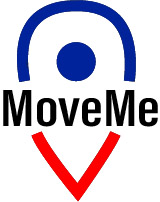
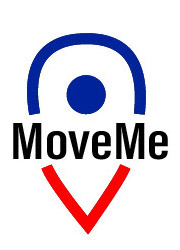
touch up the dynamically generated boxes and header

diff --git a/index.html b/index.html
@@ -23,20 +23,26 @@
 
     <header class="container-fluid" id="page-header">
         <div class="row">
-            <h1 class="col text-dark text-center">MoveMe</h1>
-        </div>
-        <div class="row">
-            <h4 class="col text-center"><span id="zip-count">Hello!</span></h4>
-        </div>
-        <div class ="row mb-3">
-            <div class="col"></div>
-            <form class="input-group col-6">
-                <input class="form-control" id="user-zip" type=text placeholder="Enter zipcode">
-                <div class="input-group-append">
-                    <button class="btn input-group-text" id="user-zip-submit" type="submit">MoveMe</button>
+            <div class="col-0 col-md-1 col-lg-2"></div>
+            <div class="col position-relative">
+                <img src="assets/images/MoveMeLogo.jpg" alt="MoveMe Logo" id="moveme-logo">
+            </div>
+            <h1 class="col text-dark text-center">MoveMe
+                <div class="row">
+                    <h4 class="col text-center"><span id="zip-count">Hello!</span></h4>
                 </div>
-            </form>
-            <div class="col"></div>
+                <div class ="row mb-3">
+                    <div class="col"></div>
+                    <form class="input-group col-6">
+                        <input class="form-control" id="user-zip" type=text placeholder="Enter zipcode">
+                        <div class="input-group-append">
+                            <button class="btn input-group-text" id="user-zip-submit" type="submit">MoveMe</button>
+                        </div>
+                    </form>
+                    <div class="col"></div>
+                </div>
+            </h1>
+            <div class="col-0 col-md-1 col-lg-2"></div>
         </div>
     </header>
 
@@ -66,12 +72,16 @@
                     <div class="card-header text-light text-center p-2" id="chat-header"><h4>MoveMe Chat</h4></div>
                     <div class="card-text m-5" id="chat-name">
                         <h3 class="text-center">Welcome to the MoveMe chat! Please select a user name.</h3>
-                        <form class="input-group mt-5" id="chat-name-box">
-                            <input class="form-control" id="chat-name-input" type=text>
-                            <div class="input-group-append">
-                                <button class="btn btn-dark input-group-text p-2 pl-3 pr-3" id="chat-name-submit" type="submit">Login</button>
-                            </div>
-                        </form>
+                        <div class="row">
+                            <div class="col-sm-0 col-lg"></div>
+                            <form class="col input-group mt-5" id="chat-name-box">
+                                <input class="form-control" id="chat-name-input" type=text>
+                                <div class="input-group-append">
+                                    <button class="btn btn-dark input-group-text p-2 pl-3 pr-3" id="chat-name-submit" type="submit">Login</button>
+                                </div>
+                            </form>
+                            <div class="col-sm-0 col-lg"></div>
+                        </div>
                     </div>
                     <div class="card-text hidden" id="chat-display"></div>
                     <form class="input-group hidden" id="chat-box">

diff --git a/assets/javascript/script.js b/assets/javascript/script.js
@@ -274,19 +274,19 @@ function displayMeetups() {
 
 
         var eventWrapper = $("<div>");
-        eventWrapper.addClass("mt-4 pr-4 event-wrapper");
+        eventWrapper.addClass("mt-4 pr-4 event-wrapper position-relative");
 
         var eventCard = $("<div>");
-        eventCard.addClass("card col m-2 position-relative");
+        eventCard.addClass("card col p-0 m-2 position-relative");
 
         var eventCardHeader = $("<div>");
-        eventCardHeader.addClass("card-header row text-light p-2 event-card-header");
+        eventCardHeader.addClass("card-header text-light event-card-header");
 
         var eventCardHeaderName = $("<h5>");
-        eventCardHeaderName.addClass("col-8");
+        eventCardHeaderName.addClass("float-left");
         eventCardHeaderName.text(currObj.eventName);
         var eventCardHeaderDate = $("<h6>");
-        eventCardHeaderDate.addClass("col-4 text-right");
+        eventCardHeaderDate.addClass("text-right");
         
         eventCardHeaderDate.text(currObj.eventDate.format("MM/DD/YYYY"));
 
@@ -295,7 +295,7 @@ function displayMeetups() {
         eventCard.append(eventCardHeader);
 
         var eventCardBody = $("<div>");
-        eventCardBody.addClass("card-body p-0 event-card-body");
+        eventCardBody.addClass("card-body m-0 p-3 event-card-body");
         
         if (currObj.image){
             var eventCardImage = $("<img>");
@@ -305,16 +305,20 @@ function displayMeetups() {
         }
 
         var eventTime = $("<h6>");
-        eventTime.addClass("text-right")
+        eventTime.addClass("text-right float-right pr-2")
         eventTime.text(currObj.eventDate.format("h:mm a"));
 
-        var eventWeather = $("<p>");
+        var eventWeather = $("<h6>");
+        eventWeather.addClass("pl-2");
+        eventWeather.text("Weather Placeholder Here");
         //put weather data here
 
         var eventDescrip = $("<p>");
+        eventDescrip.addClass("pl-2 mt-3")
         eventDescrip.html(currObj.descrip);
 
         var eventAttendees = $("<p>");
+        eventAttendees.addClass("text-right pr-2 mr-5")
         eventAttendees.text(currObj.attending + " other people are attending.")
 
         //add news article stuff here?
@@ -330,6 +334,7 @@ function displayMeetups() {
         eventCardBody.append(eventCardImage);
         }
         eventCardBody.append(eventTime);
+        eventCardBody.append(eventWeather);
         eventCardBody.append(eventDescrip);
         eventCardBody.append(eventAttendees);
         eventCardBody.append(moveMePin);
@@ -456,29 +461,3 @@ database.ref("/chat").on("value", function (snapshot){
         }
     }
 })
-
-// var outCounter = 0;
-
-// function weatherRecursion () {
-//     if (outCounter < meetupList.length){
-//         var currObj = meetupList[outCounter];
-//         // URL logic here
-//         $.ajax({
-//             url: queryURL,
-//             method: "GET"
-//         }).then(function (response) {
-//             var tempWeather; //grab the weather from the response
-//             meetupList[outCounter].weather = tempWeather;
-//             outCounter++;
-//             weatherRecursion();
-//         })
-//     } else {
-//         displayMeetups();
-//     }
-// }
-
-// for (var outCounter=0; outCounter < meetupList.length; outCounter++){
-
-
-    // WAIT FOR THE AJAX TO FINISH BEFORE MOVING ON
-// }

diff --git a/assets/css/style.css b/assets/css/style.css
@@ -14,20 +14,25 @@
 }
 
 #chat-name-box {
-    width: 300px;
+    width: 250px;
     margin-left: auto;
     margin-right: auto;
 }
 
 .event-card-image {
     width:200px;
+    margin-right: 15px;
+    margin-bottom: 15px;
+    border: outset;
+    border-color: #ccc;
+    border-width: 3px;
 }
 
 .chat-pin-toggle {
     height:75px;
     position: absolute;
-    bottom: 10px;
-    right: 35px;
+    bottom: 0px;
+    right: 17px;
 }
 
 body{
@@ -70,4 +75,8 @@ body{
 
 #moveme-body {
     background-color: rgba(200, 200, 200, .9);
+}
+
+#moveme-logo {
+    height: 200px;
 }
